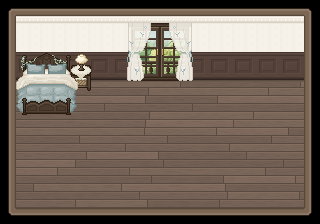
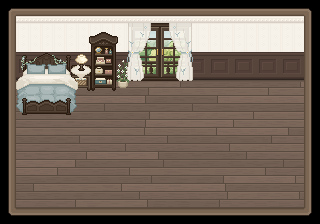
Add the bookshelf and plant, and refresh the bed, nightstand and lamp shading
Claude-Session: https://claude.ai/code/session_016ZF5nt8Kb8CDXJc19mBmz1

diff --git a/src/space/rooms/room01.ts b/src/space/rooms/room01.ts
@@ -10,8 +10,9 @@ export const ROOM_01_ID = 'room-01';
  * 5：窗帘从窗户拆出来，左右窗帘和窗帘杆各一张图。
  * 6：换成正面视角的古早风房间（墙、地板、窗、窗帘、外框各一张图），加上床。
  * 7：床拆成前后两半，床头柜靠墙放在床右边，被子盖过床头柜。
- * 8：床、窗、床头柜换成深胡桃木色，墙和地板换色，床头柜收窄，上面放台灯。 */
-export const ROOM_01_VERSION = 8;
+ * 8：床、窗、床头柜换成深胡桃木色，墙和地板换色，床头柜收窄，上面放台灯。
+ * 9：床、床头柜、台灯重画明暗，床头柜右边放复古书架，书架和窗之间放一盆开花的盆栽。 */
+export const ROOM_01_VERSION = 9;
 export function createRoom01(now = Date.now()): RoomConfiguration {
     return {
         schemaVersion: 1, roomId: ROOM_01_ID, roomVersion: ROOM_01_VERSION, revision: 0, updatedAt: now,
@@ -26,6 +27,9 @@ export function createRoom01(now = Date.now()): RoomConfiguration {
             object('nightstand', 'nightstand', 3.4375, 0, 0, 1.25, 0.6875),
             // 台灯放在床头柜的桌面上，z 是桌面高度（像素）。
             object('bedside-lamp', 'lamp', 3.4375, 0, 10, 0, 0, 'objects', 'nightstand'),
+            // 书架贴着床头柜，盆栽在书架和窗帘之间，都靠墙。
+            object('bookshelf', 'bookshelf', 4.6875, 0, 0, 1.6875, 0.6875),
+            object('plant', 'plant', 6.375, 0, 0, 0.6875, 0.5),
             object('frame', 'frame', 0, 0, 0, 0, 0, 'foreground'),
         ]
     };

diff --git a/src/space/assets.generated.ts b/src/space/assets.generated.ts
@@ -81,5 +81,23 @@ export const ROOM_ASSETS: Readonly<Record<string, RoomAsset>> = {
       "x": 0,
       "y": 21
     }
+  },
+  "bookshelf": {
+    "path": "space/room01/bookshelf.png",
+    "width": 29,
+    "height": 59,
+    "anchor": {
+      "x": 2,
+      "y": 48
+    }
+  },
+  "plant": {
+    "path": "space/room01/plant.png",
+    "width": 12,
+    "height": 28,
+    "anchor": {
+      "x": 1,
+      "y": 20
+    }
   }
 };

diff --git a/docs/space-room01.md b/docs/space-room01.md
@@ -4,10 +4,12 @@
 
 - 正面视角的古早风房间，分成五层：地板、墙（含护墙板）、窗户、窗帘（绑起来的）、外框。外框在最上层，盖住房间四周。
 - 每层都是 320 × 224 的透明底图片，叠起来就是完整的房间，放在 `public/space/room01/`。改了图之后跑一次 `generate-space-assets.mjs` 更新素材表。
-- 家具是透明底的单张图片，素材表里记着锚点。目前有床、床头柜和台灯。
+- 家具是透明底的单张图片，素材表里记着锚点。目前有床、床头柜、台灯、书架和盆栽。
 - 床拆成后半（床头、枕头）和前半（被子、床尾）两张 64 × 64 的图，床头柜（20 × 26）夹在中间画，被子往外垂的部分才能盖过床头柜。
 - 台灯（21 × 27）放在床头柜上，跟着床头柜走，先放关灯的样子；开灯和光晕之后做互动时再放进来。
-- 配色：床、窗框、床头柜、台灯底座是同一套深胡桃木色；墙上半是暖白壁纸，下半是深咖啡护墙板；地板是偏灰的深木色。
+- 复古书架（29 × 59）紧贴床头柜右边，顶上有浮雕花纹，层板上放些小摆件（镜子、首饰盒、包、书和盒子）。
+- 盆栽（12 × 28）是分枝的开白花小树，放在书架和窗帘之间。
+- 配色：床、窗框、床头柜、书架、台灯底座是同一套深胡桃木色；墙上半是暖白壁纸，下半是深咖啡护墙板；地板是偏灰的深木色。
 - 窗户先放夏天白天、关窗的那张；四季、黄昏、夜晚、开窗和拉上的窗帘之后做互动时再放进来。
 - 画到屏幕上时用双线性放大，看起来柔一点；房间本身在原尺寸拼好，不会混色。
 - 功能架构不变：入口、页面与画布、铺满与拖动缩放、归位钮、对话框、左下角通知、QingTuanSpaceDB 存档。
@@ -16,7 +18,7 @@
 
 - 正面视角：x 往右、y 往前（画面往下），每格 16 像素；z 是像素高度。见 `src/space/projection.ts`。
 - 场景 320 × 224，原点是后墙墙脚的左端，也就是地板左上角 (16, 80)。打开时铺满屏幕，左右可以拖动。
-- 地板：x 0..18、y 0..8。床后半在 (0, 0)，前半在 (0, 0.25)，脚踩的范围到床头右柱为止，宽 3.375 格；床头柜在 (3.4375, 0)，靠墙，离床头右柱 1 像素，宽 1.25 格；台灯在床头柜上，z 10。
+- 地板：x 0..18、y 0..8。床后半在 (0, 0)，前半在 (0, 0.25)，脚踩的范围到床头右柱为止，宽 3.375 格；床头柜在 (3.4375, 0)，靠墙，离床头右柱 1 像素，宽 1.25 格；台灯在床头柜上，z 10；书架在 (4.6875, 0)，宽 1.6875 格；盆栽在 (6.375, 0)，宽 0.6875 格。
 
 ## 摆放与前后顺序
 
